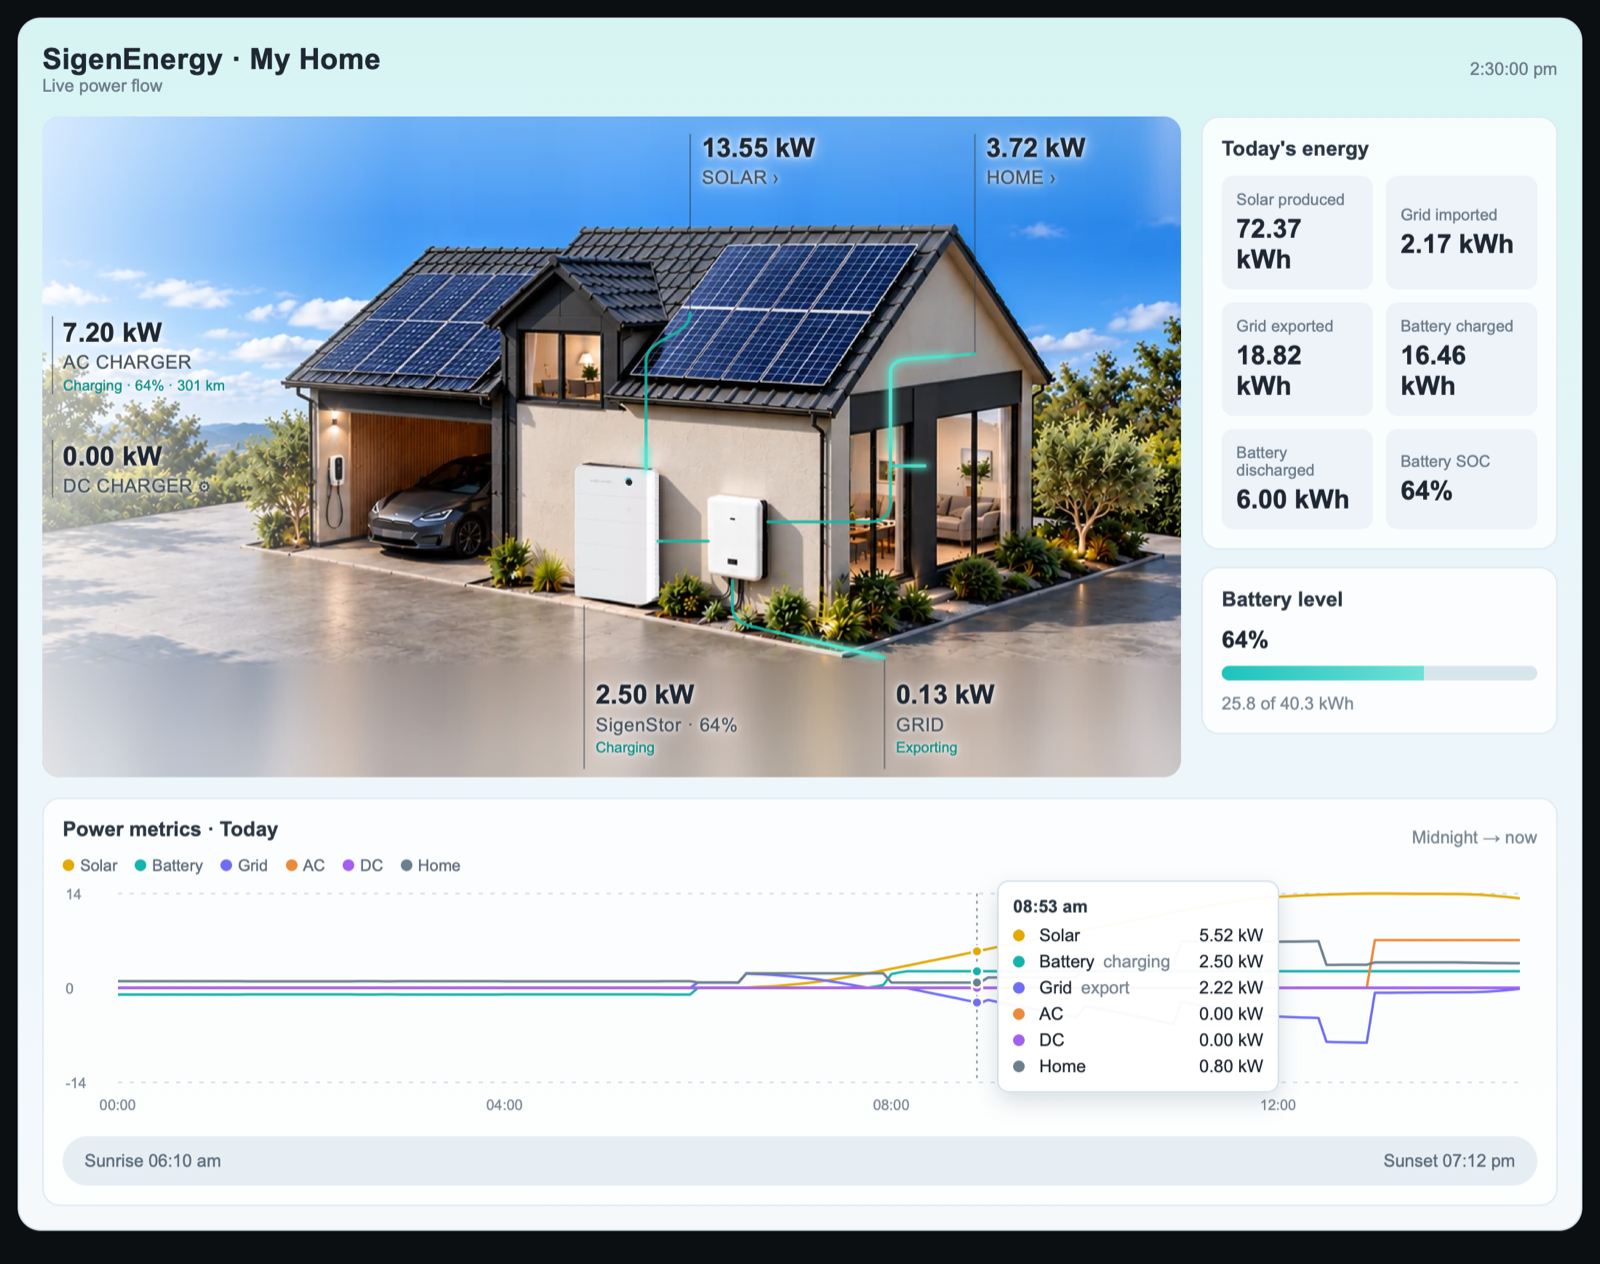
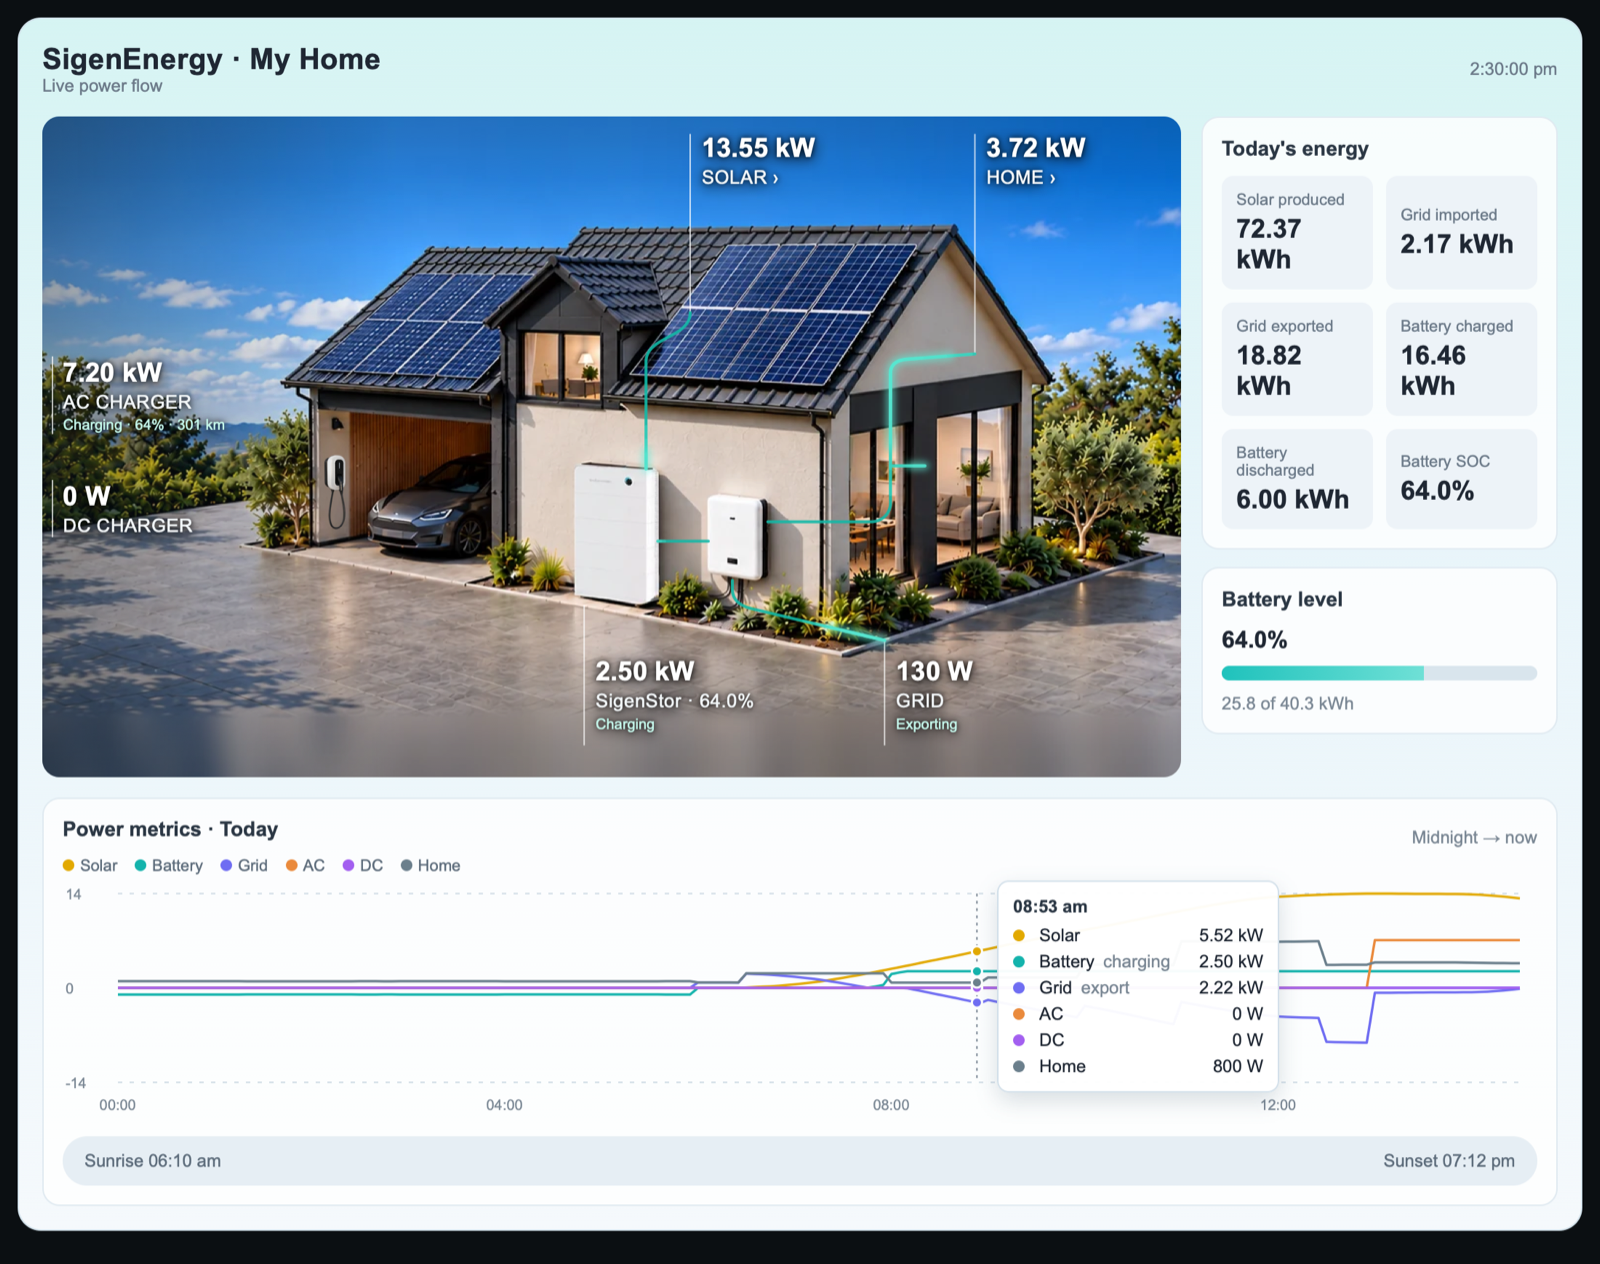
Show the night theme in the README
Add night screenshots (desktop and iPhone portrait) and refresh the day
main-view screenshots, which predate the darker fades.

diff --git a/README.md b/README.md
@@ -15,7 +15,7 @@ No other custom cards (button-card, card-mod, Mushroom) are needed.
 
 ## Screenshots
 
-The screenshots show the day style.
+The screenshots show the day style; [Night](#night) shows the dark one.
 
 ### Desktop
 
@@ -49,6 +49,21 @@ Tapping the stored energy under **Battery level**:
     <td valign="top"><img src="docs/screenshots/iphone-solar.png" alt="iPhone PV strings" width="200"></td>
     <td valign="top"><img src="docs/screenshots/iphone-home.png" alt="iPhone home power usage" width="200"></td>
     <td valign="top"><img src="docs/screenshots/iphone-energy.png" alt="iPhone battery energy" width="200"></td>
+  </tr>
+</table>
+
+### Night
+
+Between sunset and sunrise (or with `style: night`) the card switches to the dark theme and the night photo:
+
+<table>
+  <tr>
+    <th>Desktop</th>
+    <th>iPhone (portrait)</th>
+  </tr>
+  <tr>
+    <td valign="top"><img src="docs/screenshots/desktop-main-night.png" alt="Desktop main view at night" width="720"></td>
+    <td valign="top"><img src="docs/screenshots/iphone-main-night.png" alt="iPhone main view at night" width="200"></td>
   </tr>
 </table>
 
